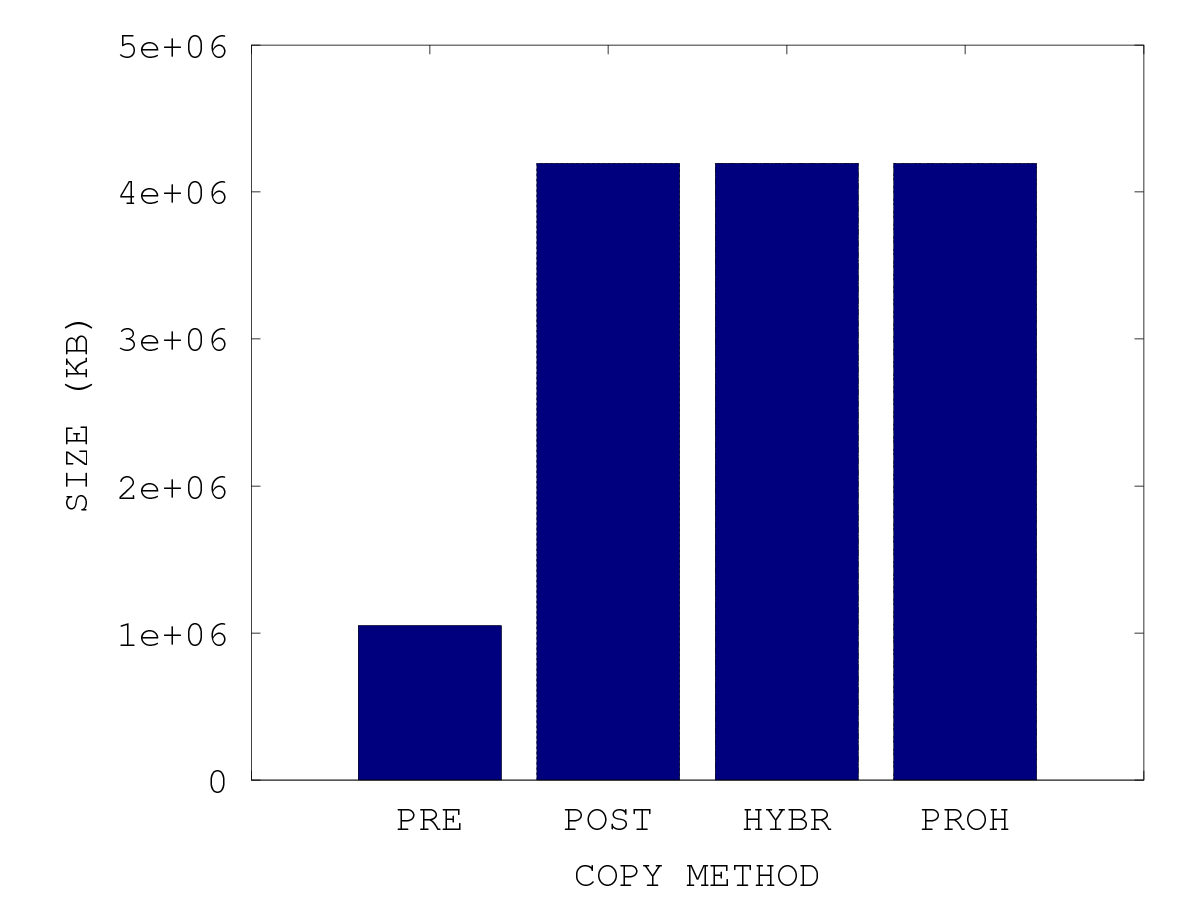
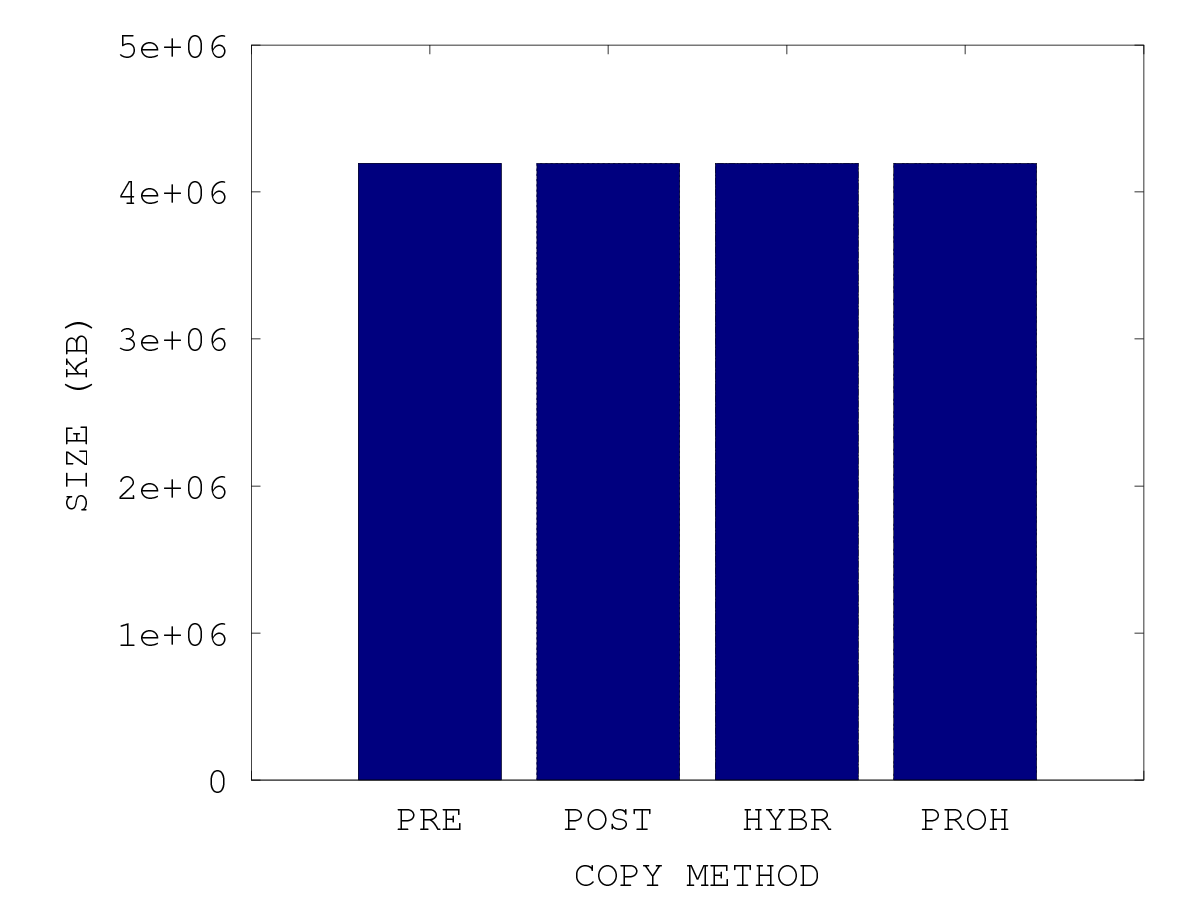
basic.m

Changed region(s): [[0.2775, 0.1556, 0.4317, 0.7156]]

diff --git a/basic.m b/basic.m
@@ -4,11 +4,11 @@ r = 4096
 r *= 1024 % convert to KB
 
 % page dirty rate in percent (%): against to total memory pages
-readrate = 0
+readrate = 50
 prefix = strcat ("M4G_R", num2str(readrate))
 readrate /= 100
 
-dirtyrate = 50 
+dirtyrate = 0 
 prefix = strcat (prefix, "_W", num2str(dirtyrate))
 dirtyrate /= 100
 
